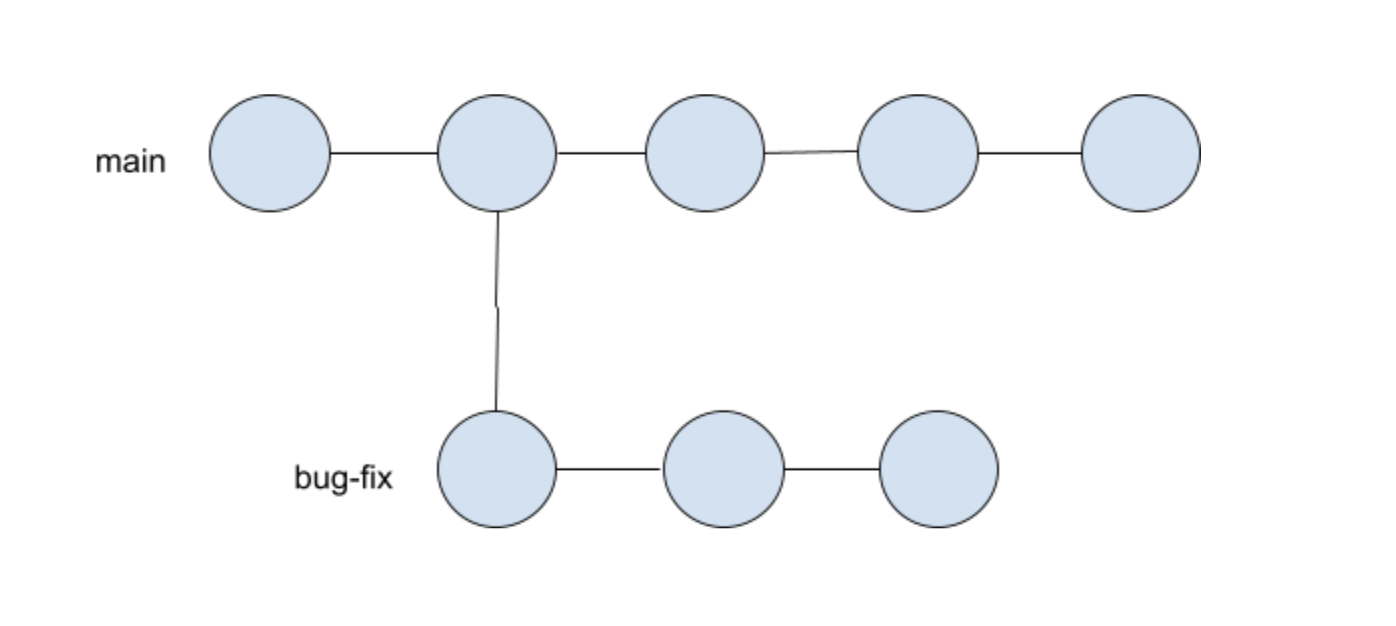
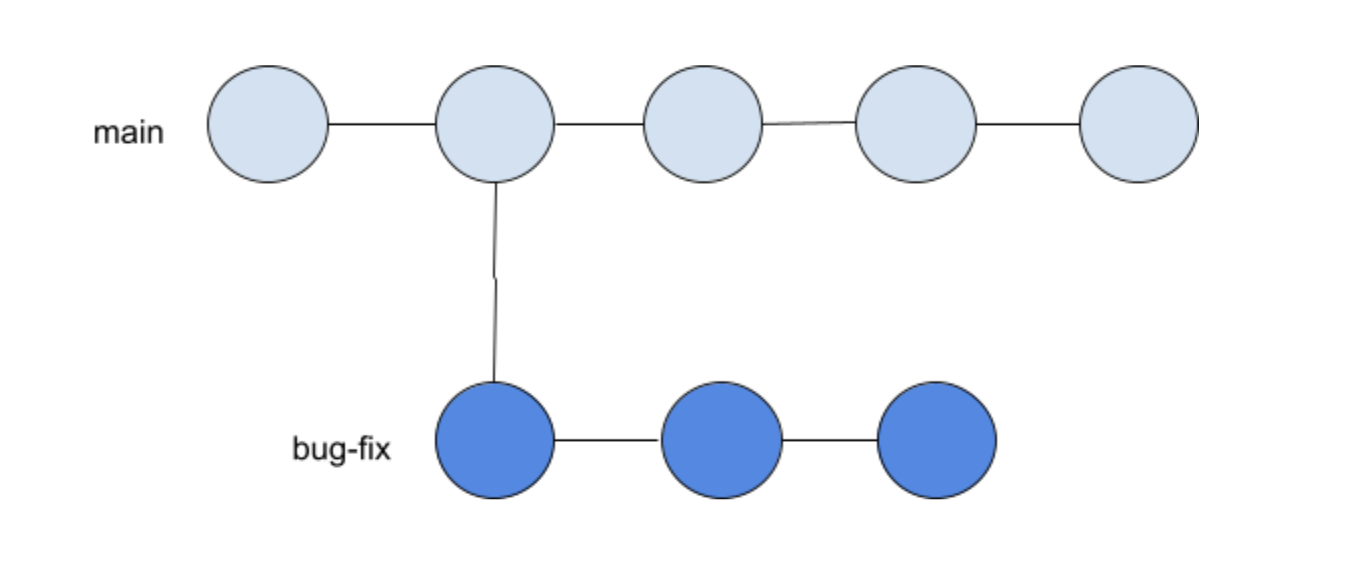
discussed rebasing and added images

Changed region(s): [[0.0619, 0.0904, 0.8982, 0.9043]]

diff --git a/git-github3.md b/git-github3.md
@@ -13,10 +13,19 @@ So without further adieu, let's immerse into the world of Git and GitHub!
 
 <br>
 
-### Git Diff, Git Merge, and Git Rebase
+### Git Merge and Git Rebase
 <br>
 
-To incorporate two different branches, use the ```git merge <branch name>``` command. Please note that, you must first be in the "receiver" branch then provide the giver branch's name when running ```git merge <branch name>```. 
+To incorporate two different branches, use the ```git merge <branch name>``` command. Please note that, you must switch to the "receiving" branch then provide the "giving" branch's name (the branch with the code modifications) when running ```git merge <branch name>```. You may also combine the two commands into one command by running ```git merge <giving branch name> <receiving branch name>``` without having to checkout a branch beforehand. Both of the above commands will generate a new merge-commit in the development branch and Git will then seamlessly integrate the changes from one branch into the other. 
+
+<br>
+
+Another method to consolidate two branches, is through the ```git rebase <branch name>``` command (in this case, navigate to the *giving* branch then specify the *receiving* branch's name). This command will also integrate changes from one branch into the HEAD branch. However, instead of converging with the main branch at the HEAD, ```git rebase <branch name>``` will simply take all the commits in the development branch and append them to the HEAD. This method is less popular because it creates new commits for each prior commit in the main branch, thereby rewriting history in a sense. The main benefit to rebasing, is a cleaner or simpler project history. In other words, after rebasing, the git log will depict commits as one linear line, as if branching and reintegration did not occur.
+
+<br>
+
+<img style="float: inline; margin: 0" width="400" height="200" src="images/after-merge.png"> 
+<img style="float: inline; margin: 0" width="400" height="200" src="images/after-rebase.png"> 
 
 <br>
 
